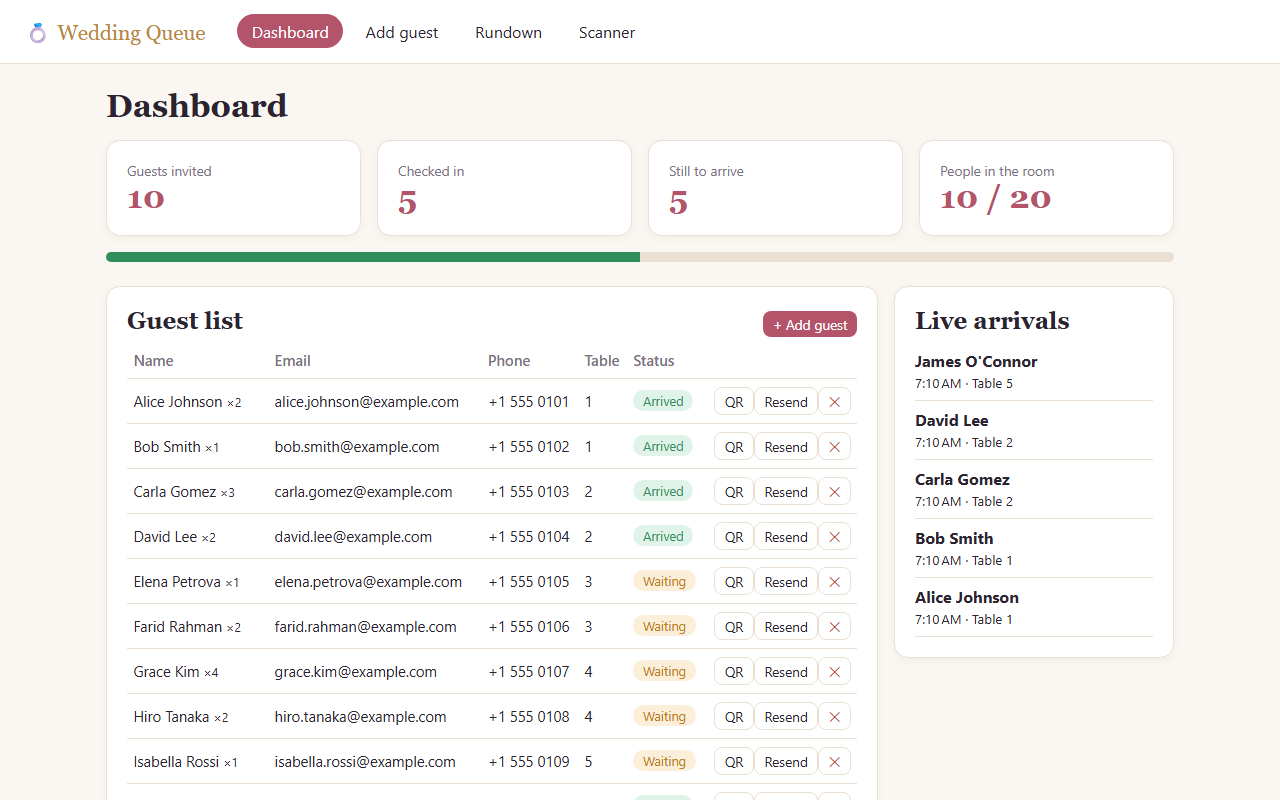
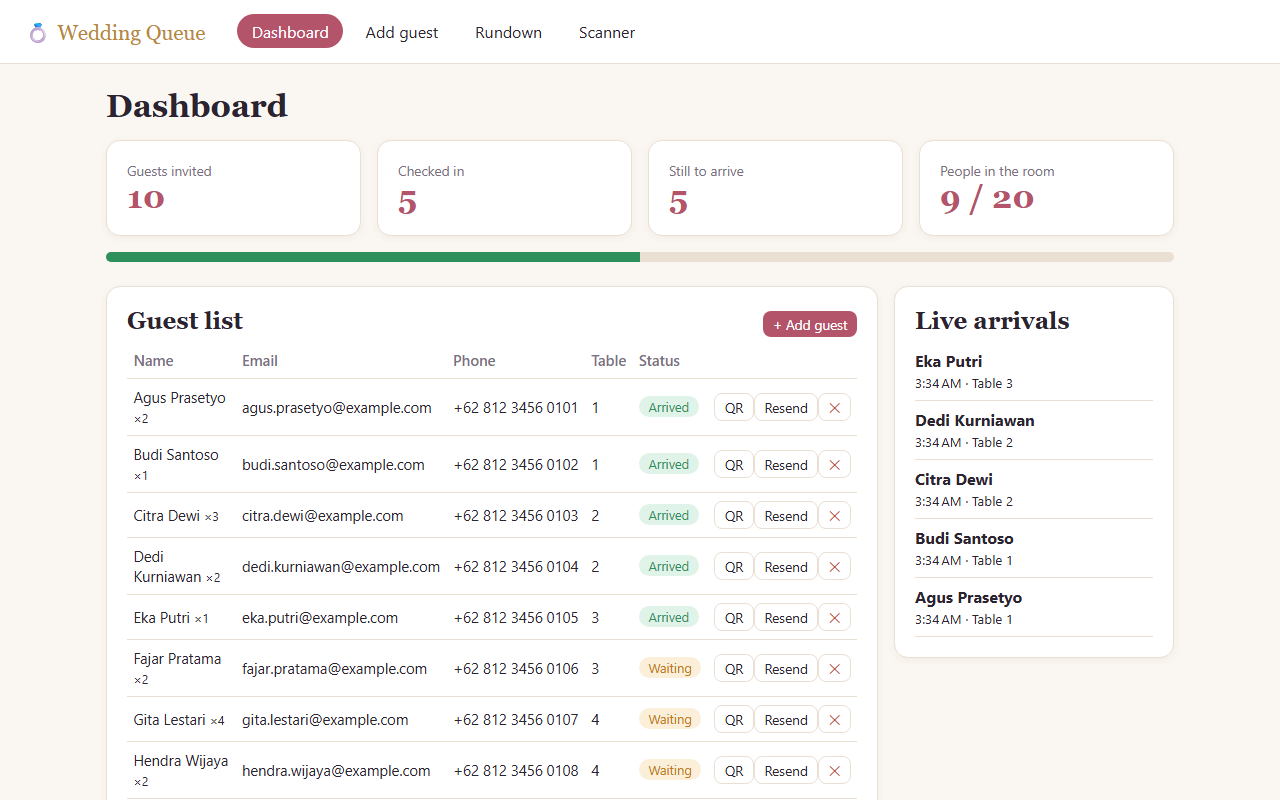
Use Indonesian sample names, phones and rundown owners; refresh screenshots

diff --git a/e2e/tests/wedding.spec.ts b/e2e/tests/wedding.spec.ts
@@ -17,14 +17,14 @@ test.describe('Dashboard', () => {
     await expect(page.getByTestId('stat-total')).toHaveText(/^\d+$/);
     const rows = page.locator('[data-testid=guest-table] tbody tr');
     expect(await rows.count()).toBeGreaterThanOrEqual(10);
-    const alice = rows.filter({ hasText: 'Alice Johnson' });
-    await expect(alice).toContainText('alice.johnson@example.com');
-    await expect(alice).toContainText('+1 555 0101');
+    const agus = rows.filter({ hasText: 'Agus Prasetyo' });
+    await expect(agus).toContainText('agus.prasetyo@example.com');
+    await expect(agus).toContainText('+62 812 3456 0101');
   });
 
   test('shows a QR code modal for a guest', async ({ page }) => {
     await page.goto('/');
-    await page.locator('tr', { hasText: 'Bob Smith' }).getByRole('button', { name: 'QR' }).click();
+    await page.locator('tr', { hasText: 'Budi Santoso' }).getByRole('button', { name: 'QR' }).click();
     await expect(page.getByTestId('qr-modal').locator('img')).toBeVisible();
     await expect(page.getByTestId('qr-code')).toHaveText(/^[0-9a-f]{16}$/);
   });

diff --git a/frontend/src/app/scanner.spec.ts b/frontend/src/app/scanner.spec.ts
@@ -32,16 +32,16 @@ describe('Scanner', () => {
   });
 
   it('shows a welcome message with the guest name on success', async () => {
-    checkIn.mockReturnValue(of({ status: 'ok', message: '', guest: { name: 'Alice Johnson', partySize: 2, table: '1' } }));
+    checkIn.mockReturnValue(of({ status: 'ok', message: '', guest: { name: 'Agus Prasetyo', partySize: 2, table: '1' } }));
     const f = await setup();
     f.componentInstance.submit('abc');
     f.detectChanges();
-    expect(q(f, 'welcome')?.textContent).toContain('Welcome, Alice Johnson!');
+    expect(q(f, 'welcome')?.textContent).toContain('Welcome, Agus Prasetyo!');
     expect(q(f, 'result')?.getAttribute('data-status')).toBe('ok');
   });
 
   it('flags a repeated scan', async () => {
-    checkIn.mockReturnValue(of({ status: 'already', message: '', guest: { name: 'Bob' } }));
+    checkIn.mockReturnValue(of({ status: 'already', message: '', guest: { name: 'Budi' } }));
     const f = await setup();
     f.componentInstance.submit('abc');
     f.detectChanges();

diff --git a/frontend/src/app/pages/dashboard.ts b/frontend/src/app/pages/dashboard.ts
@@ -92,6 +92,7 @@ import { ApiService, Guest, Stats } from '../api.service';
     th { text-align: left; color: var(--muted); font-weight: 500; }
     th, td { padding: .5rem .4rem; border-bottom: 1px solid var(--line); }
     .actions { white-space: nowrap; text-align: right; }
+    td:nth-child(3) { white-space: nowrap; }
     .danger-text { color: var(--bad); }
     ul { list-style: none; padding: 0; margin: 0; }
     li { padding: .5rem 0; border-bottom: 1px solid var(--line); }

diff --git a/backend/Data/Seeder.cs b/backend/Data/Seeder.cs
@@ -10,16 +10,16 @@ public static class Seeder
         if (db.Guests.Any()) return;
         var people = new (string Name, string Email, string Phone, string Table, int Party)[]
         {
-            ("Alice Johnson",   "alice.johnson@example.com",   "+1 555 0101", "1", 2),
-            ("Bob Smith",       "bob.smith@example.com",       "+1 555 0102", "1", 1),
-            ("Carla Gomez",     "carla.gomez@example.com",     "+1 555 0103", "2", 3),
-            ("David Lee",       "david.lee@example.com",       "+1 555 0104", "2", 2),
-            ("Elena Petrova",   "elena.petrova@example.com",   "+1 555 0105", "3", 1),
-            ("Farid Rahman",    "farid.rahman@example.com",    "+1 555 0106", "3", 2),
-            ("Grace Kim",       "grace.kim@example.com",       "+1 555 0107", "4", 4),
-            ("Hiro Tanaka",     "hiro.tanaka@example.com",     "+1 555 0108", "4", 2),
-            ("Isabella Rossi",  "isabella.rossi@example.com",  "+1 555 0109", "5", 1),
-            ("James O'Connor",  "james.oconnor@example.com",   "+1 555 0110", "5", 2),
+            ("Agus Prasetyo",   "agus.prasetyo@example.com",   "+62 812 3456 0101", "1", 2),
+            ("Budi Santoso",    "budi.santoso@example.com",    "+62 812 3456 0102", "1", 1),
+            ("Citra Dewi",      "citra.dewi@example.com",      "+62 812 3456 0103", "2", 3),
+            ("Dedi Kurniawan",  "dedi.kurniawan@example.com",  "+62 812 3456 0104", "2", 2),
+            ("Eka Putri",       "eka.putri@example.com",       "+62 812 3456 0105", "3", 1),
+            ("Fajar Pratama",   "fajar.pratama@example.com",   "+62 812 3456 0106", "3", 2),
+            ("Gita Lestari",    "gita.lestari@example.com",    "+62 812 3456 0107", "4", 4),
+            ("Hendra Wijaya",   "hendra.wijaya@example.com",   "+62 812 3456 0108", "4", 2),
+            ("Indah Permata",   "indah.permata@example.com",   "+62 812 3456 0109", "5", 1),
+            ("Joko Susilo",     "joko.susilo@example.com",     "+62 812 3456 0110", "5", 2),
         };
         foreach (var p in people)
             db.Guests.Add(new Guest { Name = p.Name, Email = p.Email, Phone = p.Phone, Table = p.Table, PartySize = p.Party, Code = GuestService.NewCode() });

diff --git a/backend.tests/ApiTests.cs b/backend.tests/ApiTests.cs
@@ -6,7 +6,7 @@ namespace WeddingQueue.Api.Tests;
 
 public class ApiTests
 {
-    static readonly GuestInput Good = new("Zed Zee", "zed@example.com", "+1 555 0199", "9", 3);
+    static readonly GuestInput Good = new("Zaki Zain", "zed@example.com", "+1 555 0199", "9", 3);
 
     [Fact]
     public async Task SeededDb_Lists10Guests()
@@ -24,7 +24,7 @@ public class ApiTests
         var res = await c.PostAsJsonAsync("/api/guests", Good);
         Assert.Equal(HttpStatusCode.Created, res.StatusCode);
         var g = (await res.Content.ReadFromJsonAsync<Guest>())!;
-        Assert.Equal("Zed Zee", g.Name);
+        Assert.Equal("Zaki Zain", g.Name);
         Assert.Single(f.Sender.Sent);
         var logs = await c.GetFromJsonAsync<List<NotificationLog>>($"/api/guests/{g.Id}/notifications");
         Assert.Equal(["email", "sms"], logs!.Select(l => l.Channel).Order().ToArray());
@@ -59,7 +59,7 @@ public class ApiTests
 
         var r1 = (await (await c.PostAsJsonAsync("/api/checkin", new CheckInRequest(g.Code))).Content.ReadFromJsonAsync<CheckInResult>())!;
         Assert.Equal("ok", r1.Status);
-        Assert.Equal("Zed Zee", r1.Guest!.Name);
+        Assert.Equal("Zaki Zain", r1.Guest!.Name);
 
         var r2 = (await (await c.PostAsJsonAsync("/api/checkin", new CheckInRequest(g.Code))).Content.ReadFromJsonAsync<CheckInResult>())!;
         Assert.Equal("already", r2.Status);

diff --git a/article.md b/article.md
@@ -167,7 +167,7 @@ public static void Seed(AppDb db)
 }
 ```
 
-Alice Johnson, Bob Smith, Carla Gomez and seven others now exist, ready to be scanned.
+Agus Prasetyo, Budi Santoso, Citra Dewi and seven others now exist, ready to be scanned.
 
 ---
 
